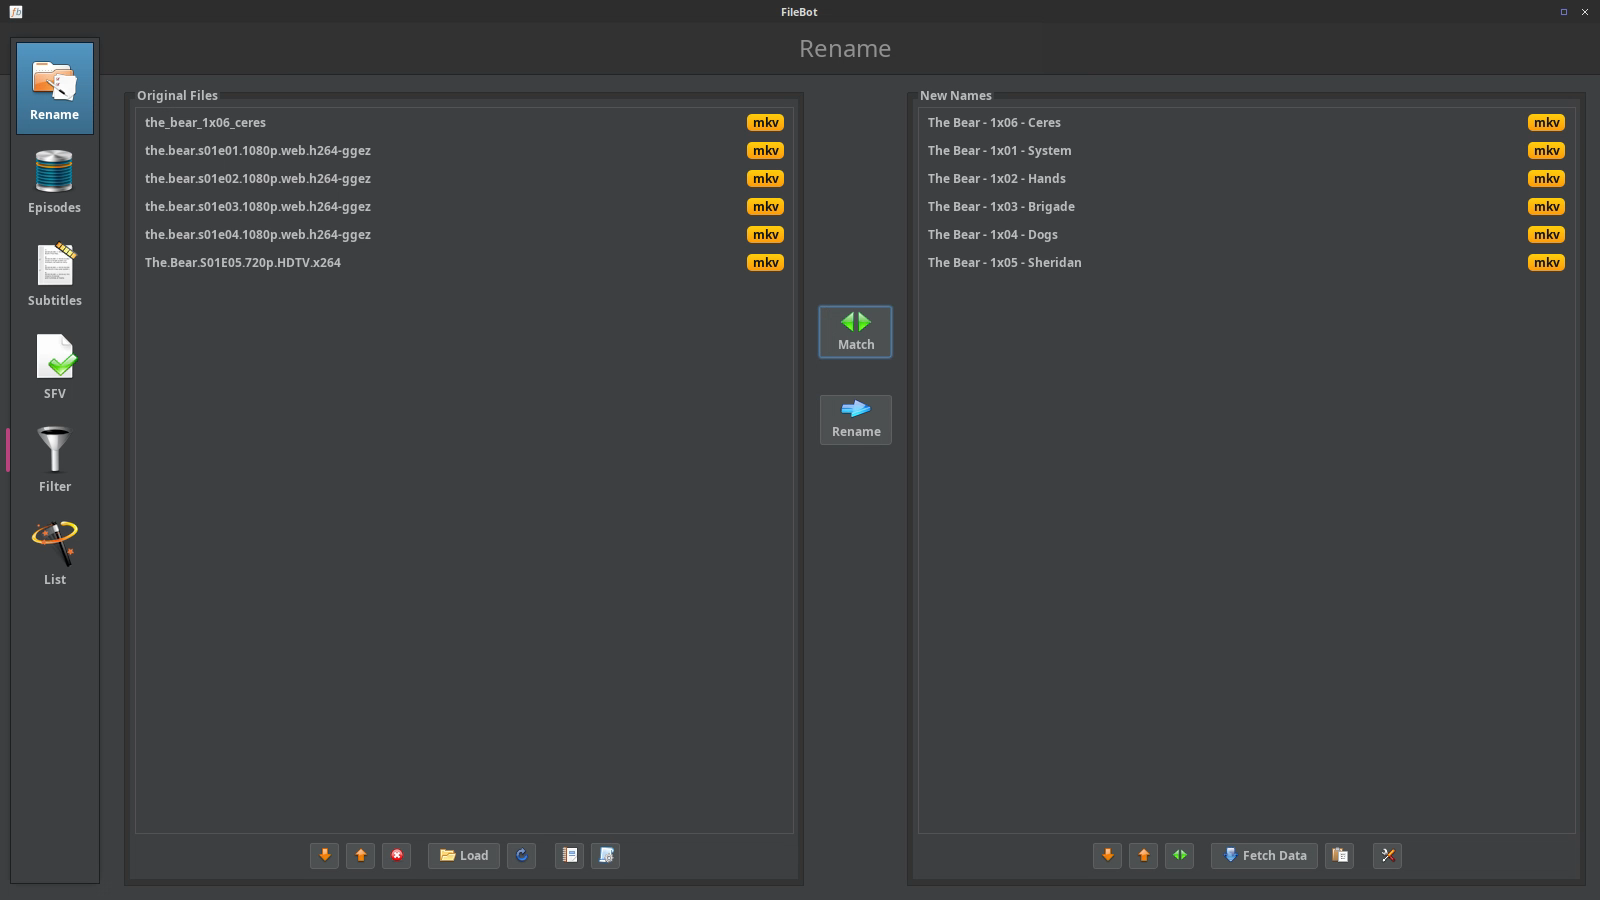
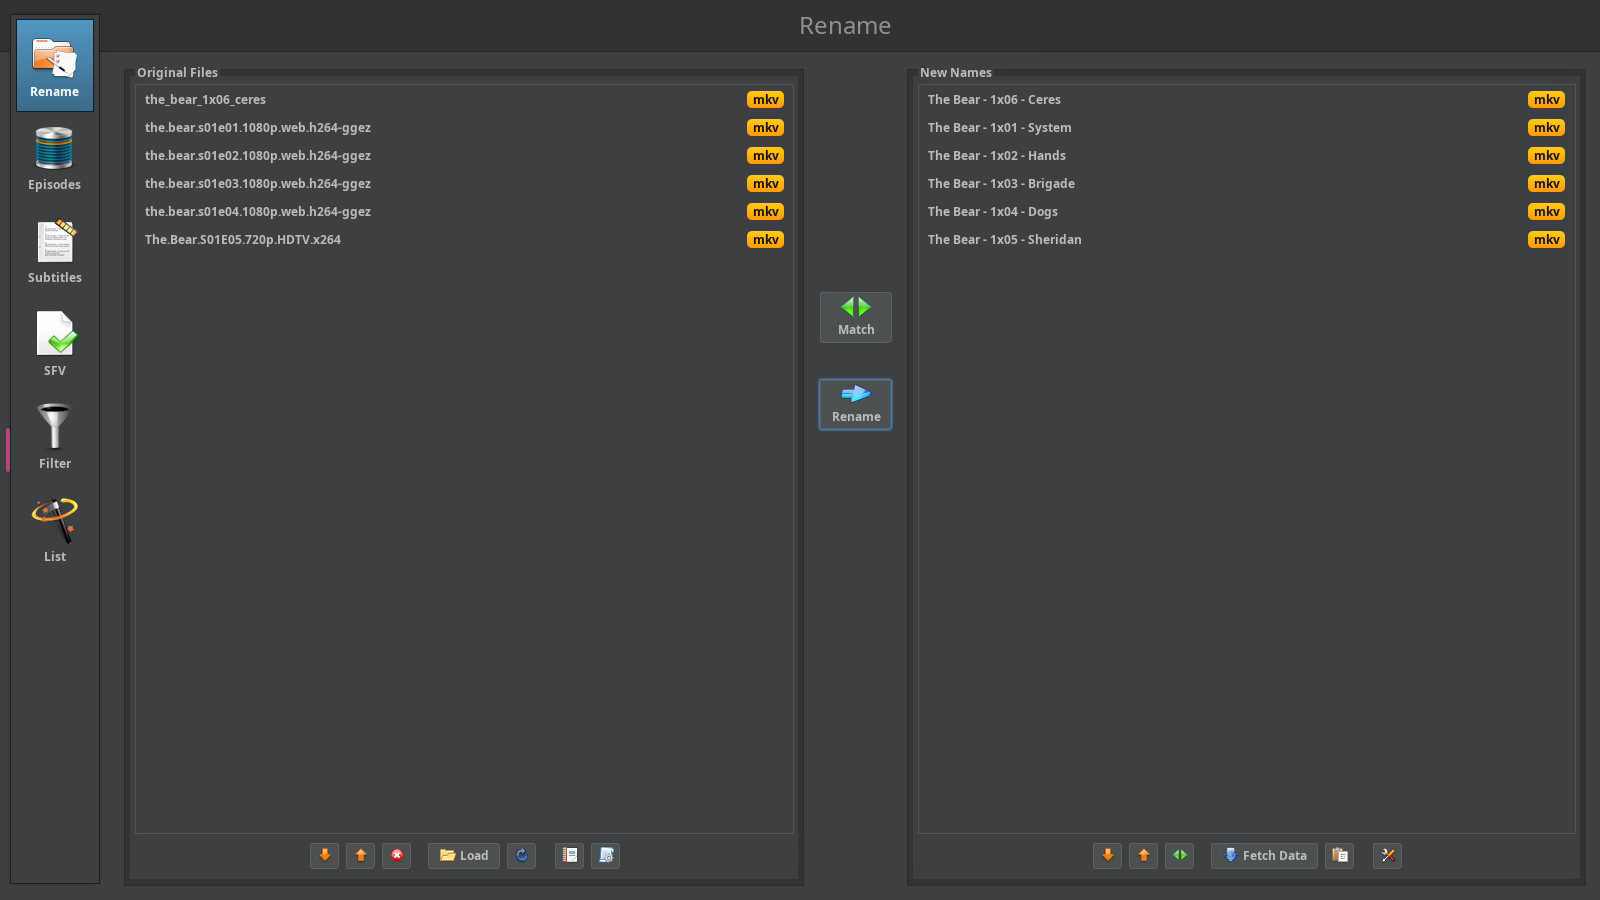
Drop the main window's title bar

diff --git a/README.md b/README.md
@@ -83,7 +83,8 @@ If it has earned a place on your server or computer, toss a coin to your knight:
 - **The real program.** This is the FileBot desktop app itself, installed unmodified from FileBot's own package repository and updated with every weekly build. Rename, Episodes, Subtitles, SFV, Filter and List all work as they do on a desktop.
 - **Everything FileBot needs to match well.** MediaInfo, chromaprint for AcoustID music matching, 7-Zip and unrar for archives, mkvtoolnix, AtomicParsley and ffmpeg come along, the same helpers the official FileBot images carry.
 - **Dark from the first start.** FileBot opens in its Darcula theme, and the file dialogs follow. For another theme, set `net.filebot.theme` in `/config/filebot/system.properties`, or `FILEBOT_THEME` before the first start.
-- **Dialogs that start where your media is.** Open and save dialogs begin in `/storage`, the folder you map your media to.
+- **The whole tab for FileBot.** The main window fills the browser tab without a title bar of its own. Dialogs keep theirs, open at their own size, and the file dialogs begin in `/storage`, the folder you map your media to.
+- **Titles in your language.** FileBot's own interface is English only, but episode and movie titles come in whatever language you pick in its language menu, German included.
 - **Back on its own.** Close FileBot by accident and it starts again within a few seconds, without a container restart.
 - **Nothing lost on updates.** Your license, settings, history and cache live under `/config/filebot`.
 

diff --git a/.github/release-notes/v1.0.0.md b/.github/release-notes/v1.0.0.md
@@ -10,7 +10,8 @@ The FileBot desktop app for Unraid, streamed to the browser over Selkies. You br
 ## 🎨 Design
 
 - **Dark from the first start.** FileBot opens in Darcula, and the file dialogs are dark too. `FILEBOT_THEME` picks another theme for a new appdata folder.
-- **Dialogs at their own size.** FileBot's dialogs and the file dialog open centred instead of filling the screen, and the file dialog starts in `/storage`.
+- **The whole tab for FileBot.** The main window fills the browser tab without a title bar of its own.
+- **Dialogs at their own size.** FileBot's dialogs and the file dialog open centred instead of filling the screen, keep their title bar so you can move and close them, and the file dialog starts in `/storage`.
 
 ## ⚡ Improved
 
